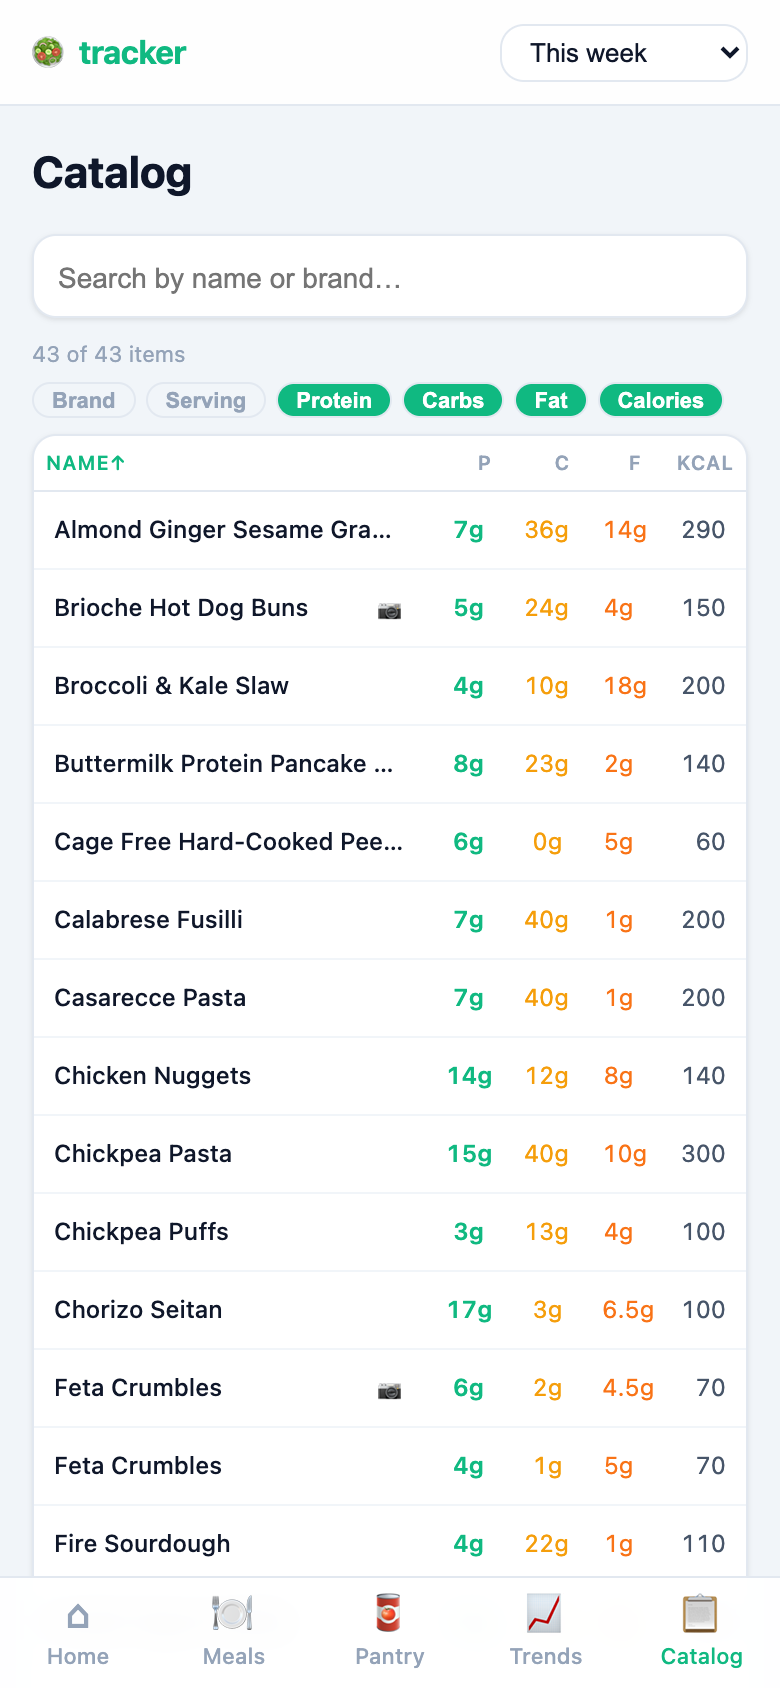
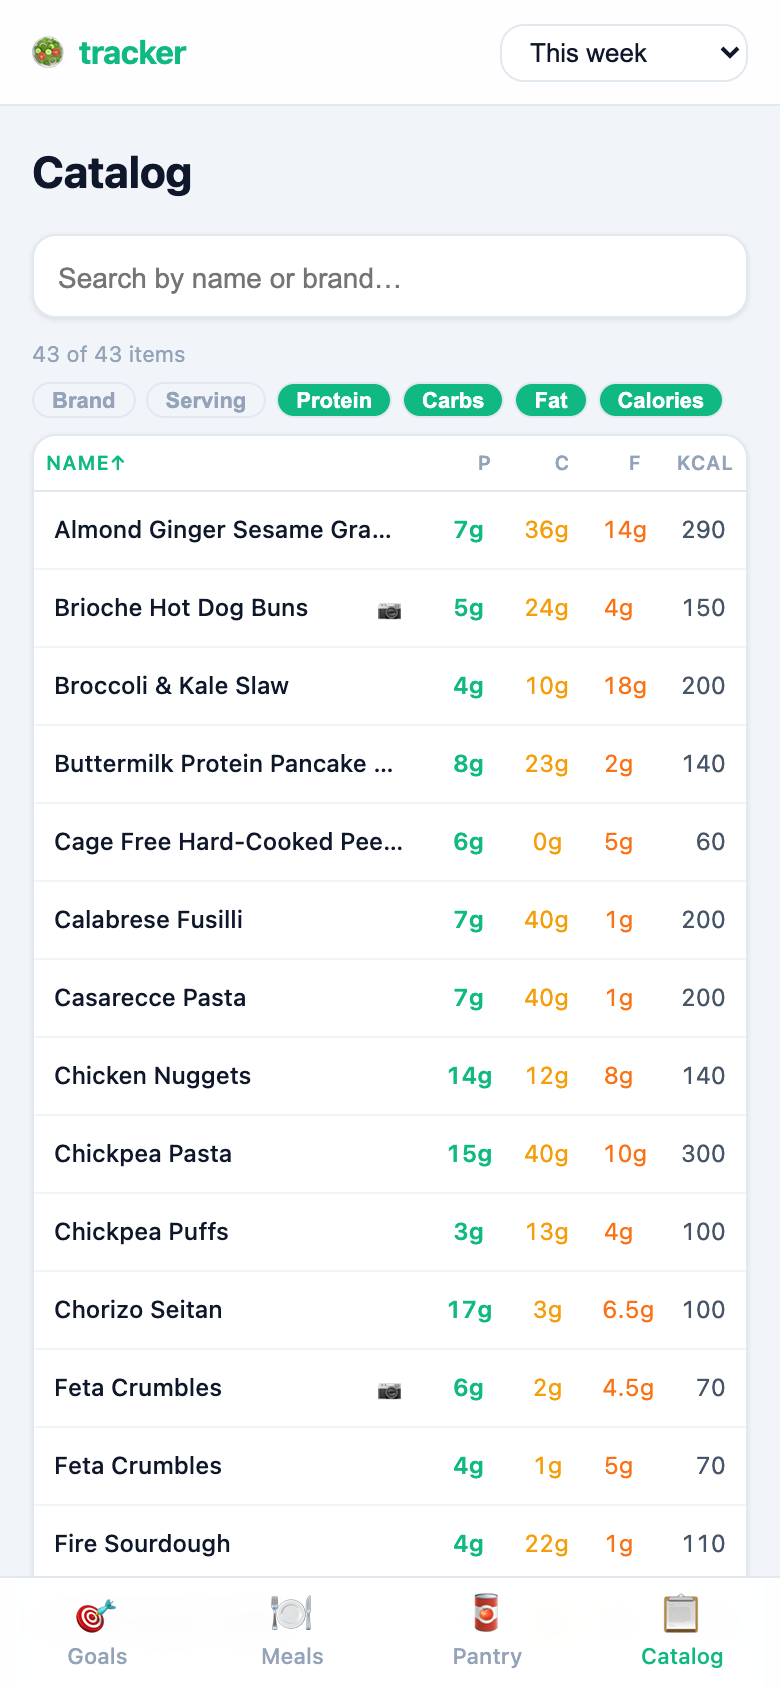
sync landing page and docs with 4-tab dashboard
- Replace home.png with goals.png (new /goals route)
- Remove Trends section from landing page
- Update CONTRIBUTING.md screenshot script to capture all 4 tabs

diff --git a/docs/index.html b/docs/index.html
@@ -418,13 +418,13 @@
     </div>
   </section>
 
-  <!-- ── 4. Goals / Home ── -->
+  <!-- ── 4. Goals ── -->
   <section class="flow-section">
     <div class="flow-inner">
       <div class="flow-content">
         <div class="flow-eyebrow">Goals</div>
         <h2>Set a macro target. See your daily pace.</h2>
-        <p class="lead">Set a goal for any date range — a cut, a bulk, a maintenance phase. The Home page shows how much of your daily target you've hit, whether you're on pace, and a breakdown by day. Multiple goals for different phases.</p>
+        <p class="lead">Set a goal for any date range — a cut, a bulk, a maintenance phase. The Goals page shows how much of your daily target you've hit, whether you're on pace, and a day-by-day breakdown. Multiple goals for different phases.</p>
         <div class="chat">
           <div class="bubble user">new goal — "April Cut", April 1–30. 160g protein, 200g carbs, 60g fat, 2200 cal per day</div>
           <div class="bubble claude">
@@ -442,37 +442,9 @@
       </div>
       <div class="flow-visual">
         <div class="phone-frame">
-          <img src="images/home.png" alt="Home — goal progress" />
+          <img src="images/goals.png" alt="Goals page" />
         </div>
-        <div class="phone-label">Home</div>
-      </div>
-    </div>
-  </section>
-
-  <!-- ── 5. Trends ── -->
-  <section class="flow-section">
-    <div class="flow-inner">
-      <div class="flow-content">
-        <div class="flow-eyebrow">Trends</div>
-        <h2>See how you've been doing over time.</h2>
-        <p class="lead">The Trends page shows your cumulative progress against each goal over the selected date range. See whether you're hitting your targets week over week — without having to ask Claude every time.</p>
-        <div class="chat">
-          <div class="bubble user">how am I doing on my April protein goal overall?</div>
-          <div class="bubble claude">
-            <strong>April Cut — Protein</strong><br />
-            372.9g logged / 4,200g target (5 days in)<br />
-            Daily average: 74.6g vs 160g target<br /><br />
-            You're behind pace. At this rate you'll end the month at ~2,240g.
-          </div>
-          <div class="bubble user">open the trends page to see the daily chart</div>
-          <div class="bubble claude">The Trends page is open in your dashboard — you'll see the daily bar chart for each goal in your selected date range.</div>
-        </div>
-      </div>
-      <div class="flow-visual">
-        <div class="phone-frame">
-          <img src="images/trends.png" alt="Trends page" />
-        </div>
-        <div class="phone-label">Trends</div>
+        <div class="phone-label">Goals</div>
       </div>
     </div>
   </section>

diff --git a/CONTRIBUTING.md b/CONTRIBUTING.md
@@ -290,9 +290,10 @@ const page = await browser.newPage();
 await page.setViewport({ width: 390, height: 844, deviceScaleFactor: 2 });
 
 const routes = [
-  { path: '/', name: 'home' },
-  { path: '/meals', name: 'meals' },
-  { path: '/pantry', name: 'pantry' },
+  { path: '/goals',   name: 'goals'   },
+  { path: '/meals',   name: 'meals'   },
+  { path: '/pantry',  name: 'pantry'  },
+  { path: '/catalog', name: 'catalog' },
 ];
 
 for (const route of routes) {
